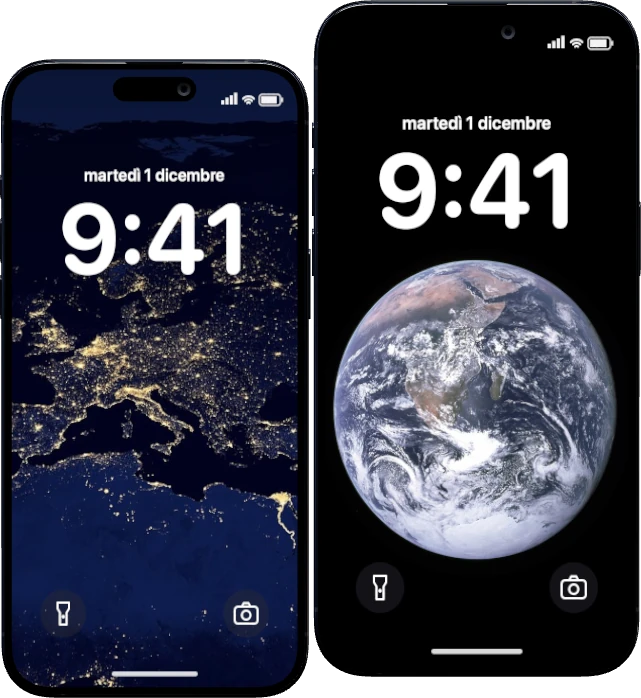
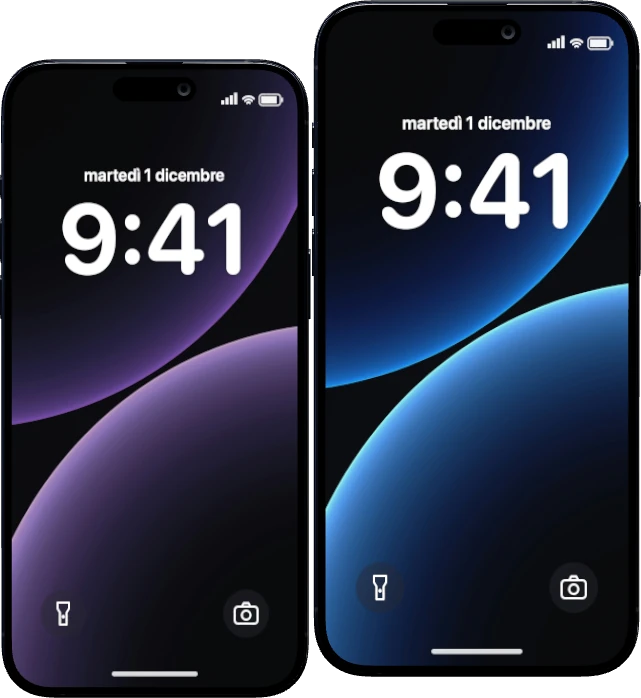
Promo iPhone: sfondi forniti dal negozio, "iPhone nuovi"
- Schermate di blocco con gli sfondi di iPhone 18 forniti da New Connection
  (viola sul 18 Pro, blu sul 18 Pro Max)
- Card: "iPhone nuovi · 256 GB"
- Crediti: tolte le foto NASA, non più usate

diff --git a/index.html b/index.html
@@ -118,7 +118,7 @@
       <li data-reveal style="--i:1" data-promo-until="2026-12-31">
         <article class="promo promo-pc promo-flip">
           <div class="promo-pc-copy">
-            <p class="promo-kicker">Smartphone Apple · 256 GB</p>
+            <p class="promo-kicker">iPhone nuovi · 256 GB</p>
             <h3>iPhone 18 Pro e 18 Pro Max</h3>
             <div class="price-duo">
               <div class="pd"><span class="pd-name">iPhone 18 Pro</span><p class="price" aria-label="1350 euro"><span class="num">1.350</span><span class="cur">€</span></p></div>

diff --git a/crediti-3d.html b/crediti-3d.html
@@ -32,11 +32,7 @@
 2) MacBook e Notebook (Servizi)
    Modelli di proprietà di New Connection.
 
-3) Sfondi degli schermi iPhone nella promo di apertura
-   Foto NASA, pubblico dominio: "The Earth seen from Apollo 17" (NASA / equipaggio di Apollo 17)
-   e "The Earth at night" (NASA Earth Observatory).
-
-4) Smartphone Android, PC fisso, PS4, PS5, Xbox
+3) Smartphone Android, PC fisso, PS4, PS5, Xbox
    Disegnati direttamente nel codice del sito (nessun file di terzi).
 
 New Connection è un centro assistenza indipendente, non affiliato ad Apple,

diff --git a/LEGGIMI.md b/LEGGIMI.md
@@ -14,7 +14,7 @@
 - [ ] **Email** → `js/config.js`, voce `email`.
 - [x] **Promo PC** → HP EliteBook 840 G5 a 299 €, dall'apertura al 31 dicembre. Dal 1° gennaio la card sparisce da sola (data in `index.html`, attributo `data-promo-until`). Nell'ultima settimana mostra "Ultimi N giorni!".
 - [ ] **Foto del negozio** → la sezione in home ("Il negozio") è pronta, con 5 riquadri. Metti le foto in `assets/negozio/` con questi nomi: `negozio-1.jpg` (la grande: il negozio), `negozio-2.jpg` (vetrina), `negozio-3.jpg` (banco), `negozio-4.jpg` (laboratorio), `negozio-5.jpg` (prodotti). Ogni foto che aggiungi prende il posto del suo riquadro, senza toccare il codice. Meglio foto orizzontali, larghe circa 1600 px.
-- [x] **Promo iPhone** → iPhone 18 Pro 256 GB a 1.350 € e 18 Pro Max 256 GB a 1.550 €, fino al 31 dicembre (si nasconde da sola il 1° gennaio). L'immagine `assets/promo/iphone-18-pro-promo.webp` è disegnata da noi col modello 3D del sito, con schermate di blocco su foto NASA di pubblico dominio (nessuna immagine Apple).
+- [x] **Promo iPhone (nuovi)** → iPhone 18 Pro 256 GB a 1.350 € e 18 Pro Max 256 GB a 1.550 €, fino al 31 dicembre (si nasconde da sola il 1° gennaio). L'immagine `assets/promo/iphone-18-pro-promo.webp` è disegnata da noi col modello 3D del sito, con schermate di blocco sugli sfondi di iPhone 18 forniti da New Connection (scelta della cliente, 12/11/2026).
 - [ ] **Privacy e cookie con iubenda** → incollare il banner cookie di iubenda nel `<head>` di tutte le pagine e i link "Privacy" e "Cookie" nel footer. In iubenda dichiarare: **Google Maps** (mappa incorporata) e **Google Fonts** (font Outfit).
 - [x] **Anteprima social** → immagine `assets/og-image.jpg` e tag già inseriti nelle 4 pagine; icona per la Home dell'iPhone `assets/apple-touch-icon.png`.
 - [ ] **Dominio definitivo** → appena è deciso: rendere completo l'indirizzo dell'immagine di anteprima (`og:image`) e aggiungere `og:url`; creare `robots.txt` e `sitemap.xml`.
